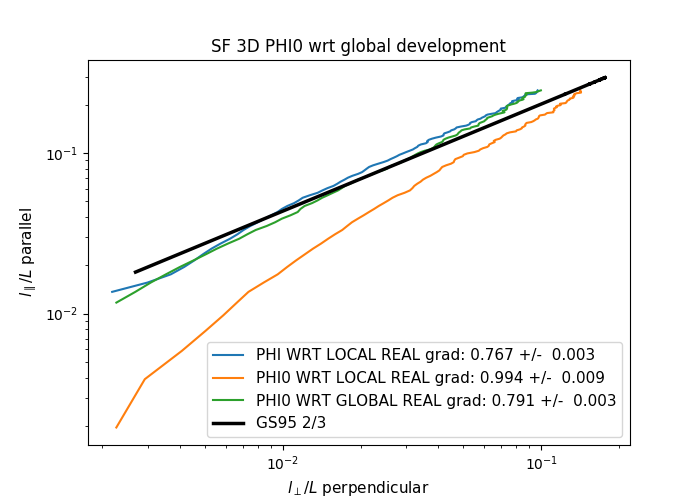
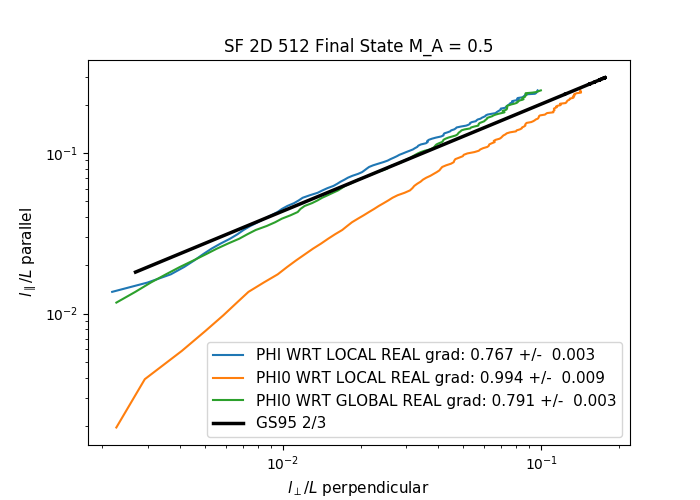
final states

Changed region(s): [[0.3, 0.06, 0.72, 0.12]]

diff --git a/Code_Analysis/plot_sf.py b/Code_Analysis/plot_sf.py
@@ -94,14 +94,14 @@ working_dir_path = r'/home/jonas/Documents/VSCode/DESY/'#'/lustre/fs23/group/tha
 tmp = working_dir_path + r'phi0init/Runs/512_test/sf_par_perp_v_phi0_wrt_global_10_kpara_2F.txt'
 phi0_wrt_global_10kpara2 = process(tmp, 512.0, 4)
 #phi0 wrt local amp05
-# tmp = working_dir_path + r"localB/Runs/sf_par_perp_v_phi0_wrt_local_amp05F.txt"
-# phi0_wrt_local_amp05 = process(tmp, 512.0, 0)
+tmp = working_dir_path + r"localB/Runs/sf_par_perp_v_phi0_wrt_local_amp05F.txt"
+phi0_wrt_local_amp05 = process(tmp, 512.0, 0)
 # #phi0 wrt local amp1
 # dir_sf = working_dir_path + r'localB/Runs/sf_par_perp_v_phi0_wrt_local_amp1F.txt'
 # phi0_wrt_local_amp1 = process(dir_sf, 512.0, 0)
 # #phi wrt local amp05
-# dir_sf = working_dir_path + r'localB/Runs/512_B_amp05/sf_par_perp_v_phi_wrt_local_fixF.txt'
-# phi_wrt_local_amp05 = process(dir_sf, 512.0, 0)
+dir_sf = working_dir_path + r'localB/Runs/512_B_amp05/sf_par_perp_v_phi_wrt_local_fixF.txt'
+phi_wrt_local_amp05 = process(dir_sf, 512.0, 0)
 # #phi wrt local amp1
 # dir_sf = working_dir_path + r'localB/Runs/512_B_amp1/sf_par_perp_v_phi_wrt_localF.txt'
 # phi_wrt_local_amp1 = process(dir_sf, 512.0, 0)
@@ -157,15 +157,16 @@ phi0_3_2 = process(dir_sf, 512.0, 0)
 
 dir_sf = working_dir_path + r'phi0init/Runs/512_5_3/sf_par_perp_v_phi0_wrt_global_10_kparaF.txt'
 phi0_5_3 = process(dir_sf, 512.0, 0)
-
+"""
 dir_sf = working_dir_path + r'phi0init/Runs/1024_test/sf_par_perp_v_phi0_wrt_global_10_kparaF.txt'
 phi0_1024 = process(dir_sf, 512.0, 0)
-"""
+
+
 #reference straight line for GS95
 """
-lpar_temp =phi0_1024[0] #phi0_wrt_global_10kpara2[0]
-lperp_temp =phi0_1024[1] #phi0_wrt_global_10kpara2[1]
-count_temp =phi0_1024[-1] #phi0_wrt_global_10kpara2[-1]
+lpar_temp =phi0_wrt_global_10kpara2[0] #phi0_1024[0] #
+lperp_temp =phi0_wrt_global_10kpara2[1] #phi0_1024[1] #
+count_temp =phi0_wrt_global_10kpara2[-1] #phi0_1024[-1] #
 ref_slope_3d_512_f = lpar_temp[0]*(np.power(lperp_temp[:count_temp],(2.0/3.0)))/(np.power(lperp_temp[0],(2.0/3.0)))
 """
 lpar_temp = phi0_wrt_global2D[0]
@@ -176,7 +177,7 @@ ref_slope_2d = lpar_temp[5]*(np.power(lperp_temp[:count_temp],(2.0/3.0)))/(np.po
 #plotting the structure functions
 plt.figure(figsize=(7.0, 5.0), dpi=100)
 
-#plot(phi0_wrt_global_10kpara2, '512 Phi0 10kpara^-2')
+#plot(phi0_wrt_global_10kpara2, 'PHI0 WRT GLOBAL')
 
 #plot(phi0_nokpara, '512 Phi0 initial')
 
@@ -199,11 +200,11 @@ plot(phi0_wrt_localalt, 'PHI0 WRT LOCAL REAL')
 plot(phi0_wrt_globalalt, 'PHI0 WRT GLOBAL REAL')
 
 
-#plot(phi0_wrt_local_amp05, 'B M_A = 2.46')
+#plot(phi0_wrt_local_amp05, 'PHI0 WRT LOCAL')
 
 #plot(phi0_wrt_local_amp1, 'B M_A = 4.93')
 
-#plot(phi_wrt_local_amp05, 'PHI M_A = 2.46')
+#plot(phi_wrt_local_amp05, 'PHI WRT LOCAL')
 
 #plot(phi_wrt_local_amp1, 'PHI M_A = 4.93')
 
@@ -215,7 +216,7 @@ plot(phi0_wrt_globalalt, 'PHI0 WRT GLOBAL REAL')
 #plot(phi_wrt_local_amp03, 'PHI M_A = 1.477')
 #plot(phi_wrt_local_amp04, 'PHI M_A = 1.970')
 
-#plt.plot(lperp_temp[:count_temp], 1.5*ref_slope_3d_512_f, lw=2.5, color = "black", ls = "-", label="GS95 2/3")
+#plt.plot(lperp_temp[:count_temp], 2*ref_slope_3d_512_f, lw=2.5, color = "black", ls = "-", label="GS95 2/3")
 plt.plot(lperp_temp[:count_temp], 4.5*ref_slope_2d, lw=2.5, color = "black", ls = "-", label="GS95 2/3")
 plt.xscale('log')
 plt.yscale('log')
@@ -223,7 +224,7 @@ plt.yscale('log')
 #plt.ylim(0.0015, 0.3)
 plt.xlabel(r'$l_{\perp}/ L $ perpendicular',fontsize=11)
 plt.ylabel(r'$l_{\parallel}/L $ parallel',fontsize=11)
-plt.title('SF 3D PHI0 wrt global development')
+plt.title('SF 2D 512 Final State M_A = 0.5')
 plt.legend(loc='best',ncol=1,fontsize=11)
 
 #plt.tight_layout()
